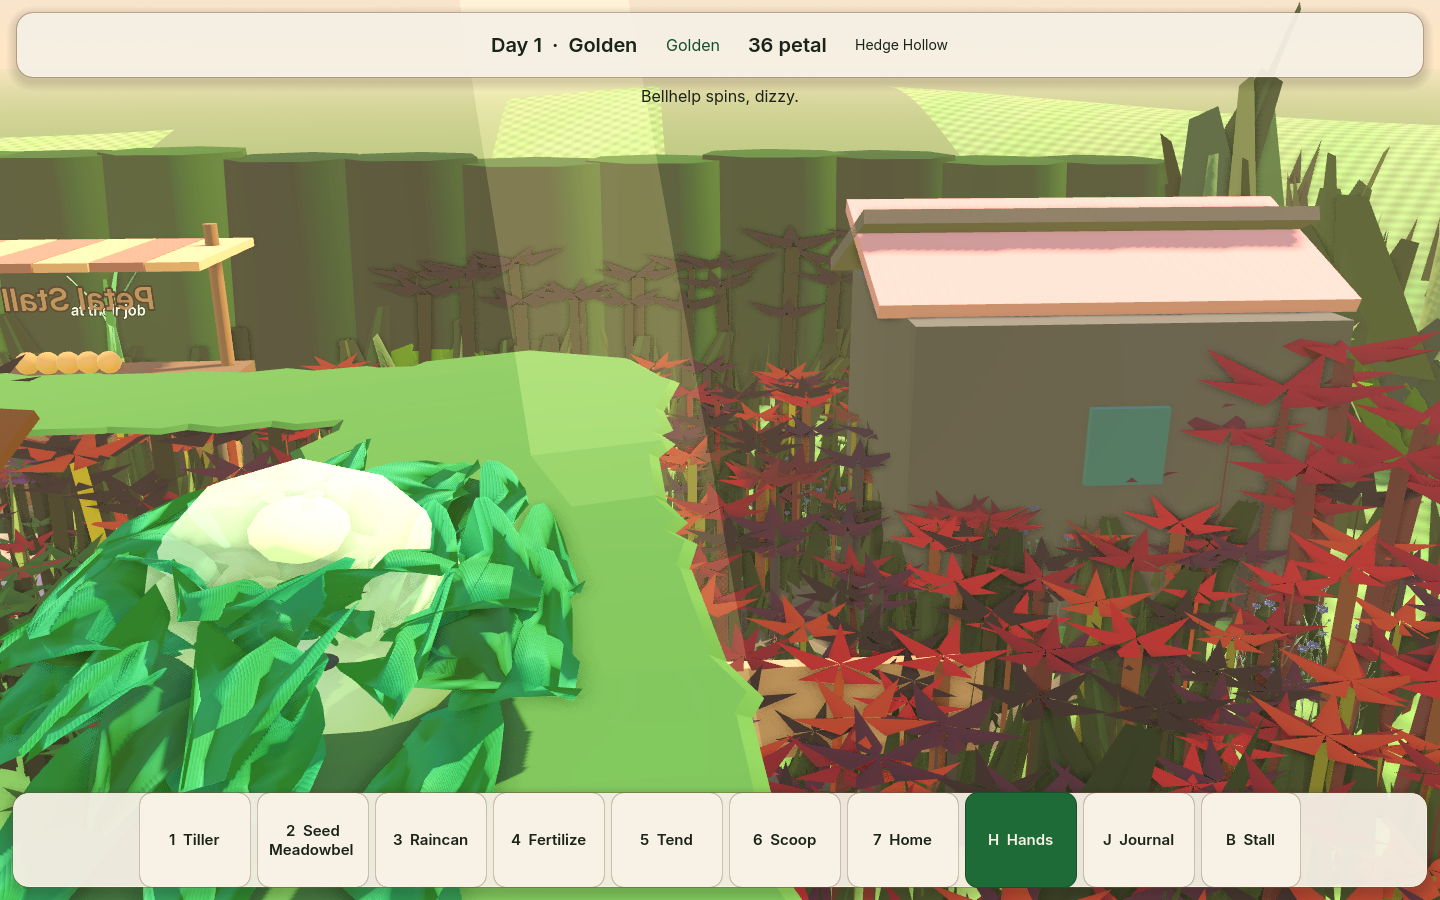
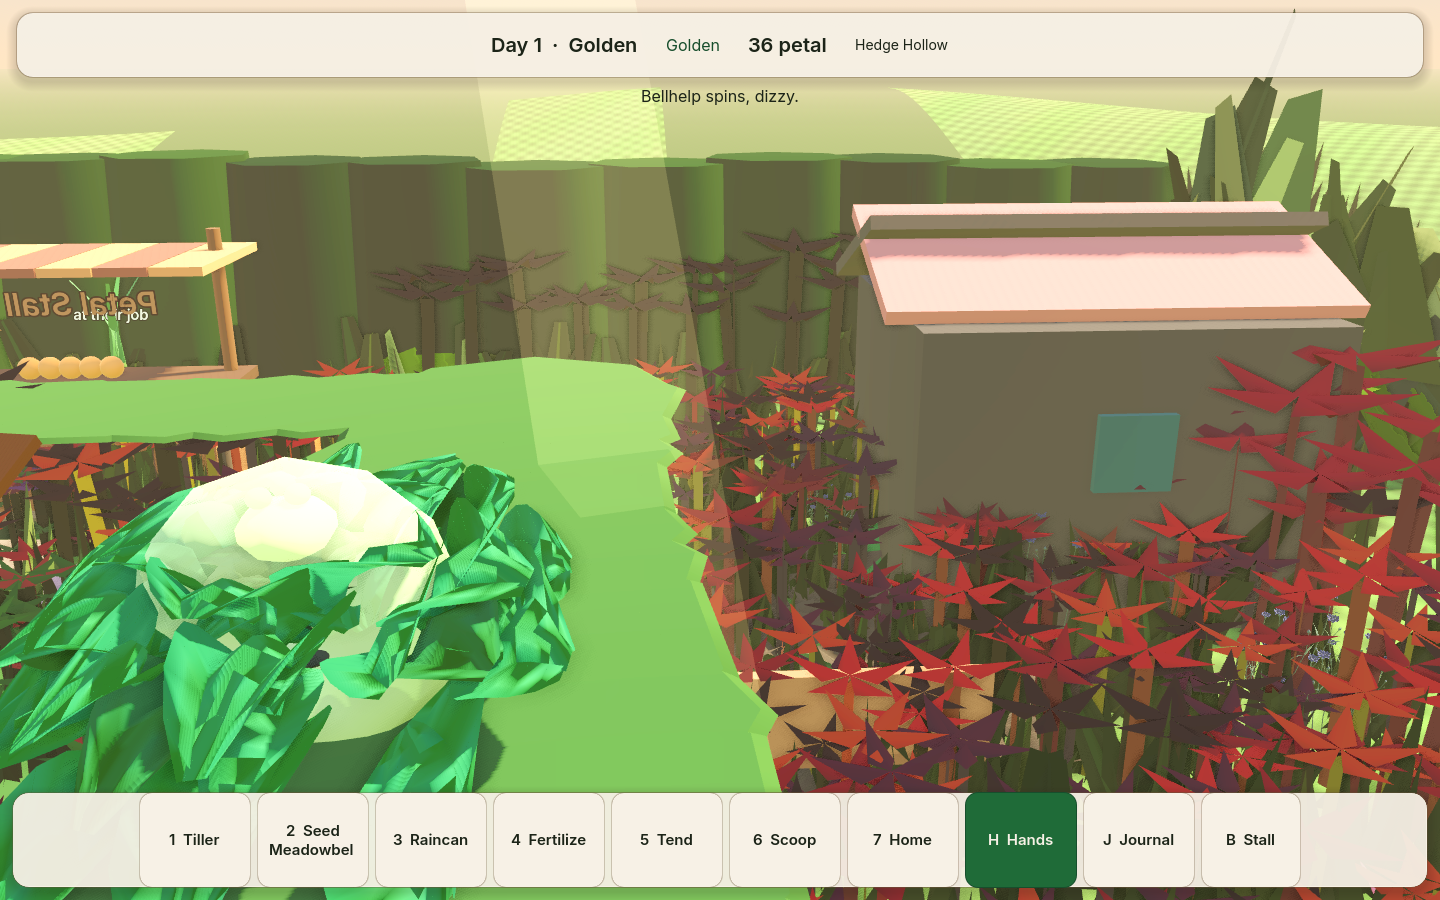
Record PETAL-03 jelly play and the overhead land miss.
c3f55dd feel kernel is on 08 via the merged jelly. One new
overhead pin was the only extra land-camera try; the body is
still out of frame. Physics land stays asserted. No more camera
variants.

diff --git a/docs/PETAL_CAMPAIGN_STATE.md b/docs/PETAL_CAMPAIGN_STATE.md
@@ -19,7 +19,7 @@ Qwen3-1.7B DPO-merged Q8_0 GGUF on llama.cpp CPU. `POST /decide {question, conte
 | --- | --- | --- | --- | --- |
 | 01 | `petal/01-foundation` | `7d5097e` | ported | face inspect, Space rest, yield save |
 | 02 | `petal/02-ecology` | `aab1eca` | ported | habitat, hunger, neighbour growth |
-| 03 | `petal/03-jelly` | `c3f55dd` | ported | grab, stretch, throw, bounce |
+| 03 | `petal/03-jelly` | `c3f55dd` | ported | grab, stretch, throw, bounce; land frame still missed |
 | 04 | `petal/04-residents` | `6b48d2e` | ported | needs, tea, memories, no porch overshoot |
 | 05 | `petal/05-economy` | `b5b90a6` | ported | kettle tea chain (peach+bell, cap 3, stop/restart) |
 | 06 | `petal/06-town` | `f4c63d3` | ported | South Lane, Grove Park, promote/demote, no spawned bodies |
@@ -38,7 +38,7 @@ Playable canonical build. Kenney grove (`scripts/main.gd`, `scripts/sim/petal_*`
 
 07 vale (`cd45eb4`, PR #11): `regions.json` / `region_sim.gd` / `test_region.gd` match the tip. `petal_qa` on this tree: `PETAL_RULES_OK` `SYSTEMS_OK` `PETAL_CONTRACTS_OK` `FOUNDATION_OK` `JELLY_FEEL_OK` `RESIDENT_LIFE_OK` `TOWN_OK` `REGION_OK` (six-day pulse) `PETAL_QA_SCRIPTS_OK`. Garden: `PETAL_INTEGRATE_OK` (5 parishes, save key `region`). `PETAL_VALE_SHOT_OK` recaptured here: `vale_tab.png` (Hollow district, Reedbank/Mossford/Lea settlement, Thatchmere region, 4 carts). Qwen3-VL unused.
 
-03 land frame: one new overhead pin (`_pin_overhead`, pitch 62) after the air shot. Follow-cam land was already 3-strike abandoned on 03. `JELLY_PLAY_OK` (`land_y` finite, feel `air` at 0.49). `docs/screenshots/jelly_land.png` still looks into crest foliage; body not in frame. No further camera variants.
+03 jelly (`c3f55dd`, PR #4): 08 keeps the merged `jelly.gd` (JellyFeel + 01 inspect). `JELLY_FEEL_OK` `SYSTEMS_OK` `PETAL_RULES_OK`. `JELLY_PLAY_OK` on this tree, offline decide `bellhelp`. Held/air frames: `jelly_held.png` (HUD playful · held), `jelly_air.png` (Bellhelp spins, dizzy). 03 follow-cam land was 3-strike abandoned. 08's one new approach: `_pin_overhead` pitch 62 on a fixed pad, not a follow cam. Physics: `land_y` 0.50 finite, feel `air`, not held, not under the lawn. `jelly_land.png` still looks into crest foliage; body not in frame. No further camera variants. Qwen3-VL unused. 03's hef-dfc Berrypatch 0.834 was on that lane's host, not this run.
 
 ## Tests (`29e278b`, Godot 4.8-dev6 llvmpipe, dummy ALSA)
 

diff --git a/docs/lanes/08.md b/docs/lanes/08.md
@@ -18,7 +18,7 @@
   - `PETAL_INTEGRATE_OK` pass
   - `PETAL_SELFPLAY_OK` pass
   - `PETAL_SMOKE_OK` pass
-  - `JELLY_PLAY_OK` pass (land frame still missed the body)
+  - `JELLY_PLAY_OK` pass on 08 (`c3f55dd`; overhead land still missed the body)
   - `PETAL_KETTLE_SHOT_OK` pass on 08 (`b5b90a6` kettle chain)
   - `PETAL_TOWN_SHOT_OK` pass on 08 (`f4c63d3` Grove Park + promote/demote)
   - `PETAL_VALE_SHOT_OK` pass on 08 (`cd45eb4` five parishes + carts)
